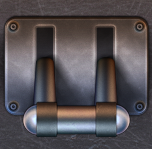
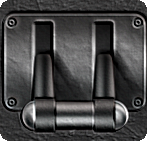
UI fixup - synchronisation of styles, minor graphic shanges, fonts, etc

diff --git a/common.css b/common.css
@@ -2,7 +2,7 @@
 /* Reset
 /*****************************************************************************/
 
-html, body, div, span, object, iframe, h1, h2, h3, h4, h5, h6, p, blockquote, pre, abbr, address, cite, code, del, dfn, em, img, ins, kbd, q, samp, small, strong, sub, sup, var, b, i, dl, dt, dd, ol, ul, li, fieldset, form, label, legend, table, caption, tbody, tfoot, thead, tr, th, td, article, aside, canvas, details, figcaption, figure, footer, header, hgroup, menu, nav, section, summary, time, mark, audio, video {
+html, body, div, span, object, iframe, h1, h2, h3, h4, h5, h6, p, blockquote, pre, abbr, address, cite, code, del, dfn, em, img, ins, kbd, q, samp, small, strong, sub, sup, var, b, i, dl, dt, dd, ol, ul, li, fieldset, form, label, legend, table, caption, tbody, tfoot, thead, tr, th, td, article, aside, canvas, details, figcaption, figure, footer, header, menu, nav, section, summary, time, mark, audio, video {
     margin: 0;
     padding: 0;
     border: 0;
@@ -10,12 +10,12 @@ html, body, div, span, object, iframe, h1, h2, h3, h4, h5, h6, p, blockquote, pr
     font-size: 100%;
     vertical-align: baseline;
     background: transparent;
-    font-family: Tahoma, sans-serif;
+    /*font-family: Tahoma, sans-serif;*/
 }
 body {
     line-height: 1
 }
-article, aside, details, figcaption, figure, footer, header, hgroup, menu, nav, section {
+article, aside, details, figcaption, figure, footer, header, menu, nav, section {
     display: block
 }
 nav ul {
@@ -280,11 +280,11 @@ h2{
 /* Control panel
 /*****************************************************************************/
 .status-bar{
-    /*background-image: url("images/menu/stats-background.png");*/
-    background-color :black;
+    background-image: url("images/menu/stats-background.png");
     height: 75px;
     width:75px;
     color:white;
+    font-family: 'Forum', cursive;
 }
 
 #status-bar >h1 {
@@ -293,12 +293,14 @@ h2{
 #control {
     background-color: #000000 ;
     color: #FFFFFF!important;
-    font-size: 10px;
+    font-size: 14px !important;
     height: 50px;
     margin-top: 500px;
     padding: 4px 6px 2px 6px;
     width: 788px;
     font-size: 110%;
+
+    font-family: 'Forum', cursive;
 }
 #control-left {
     float: left;
@@ -310,7 +312,7 @@ h2{
     float: left;
     text-align: center;
     width: 90px;
-    font-family: Tahoma, sans-serif;
+
 }
 #control-turrets > img {
     width:25px;
@@ -336,6 +338,7 @@ h2{
 }
 #control-right {
     float: right;
+
 }
 #control-right-1, #control-right-2, #control-right-3 {
     float: left;
@@ -346,10 +349,21 @@ h2{
     display: flex;
 }
 
+#control-right-2{
+    width:153px;
+    background-image: url("images/menu/textbackground.png");
+    background-size:100%;
+    background-repeat: no-repeat;
+    min-width: 60px;
+    padding: -10px 10px;
+}
+
+#control-right-3{
+    width:80px;
+}
 
 #control-timer {
-    /*background-image: url("images/menu/radioActive.png");*/
-    background-color: blue;
+    background-image: url("images/menu/radioActive.png");
     background-size:60%;
     background-repeat: no-repeat;
     display: block;
@@ -357,29 +371,42 @@ h2{
     height: 40px;
     margin-bottom: 2px;
     width: 65px;
+    margin-top: 8px;
 }
 
 
 #control-fast {
-    /*background-image: url("images/menu/handleDown.png");*/
-    background-color: red;
+    background-image: url("images/menu/handleDown.png");
     background-size: 100%;
     background-repeat: no-repeat;
     display: block;
     height: 40px;
     margin-bottom: 2px;
     width: 40px;
+    margin-right: 15px;
+    margin-top: 8px;
 }
 .control-fast-up{
-    /*background-image: url("images/menu/handleUp.png")!important;*/
-    background-color: green!important;
+    background-image: url("images/menu/handleUp.png")!important;
 }
-#control-right-2 {
-    border: solid #CCC;
-    border-width: 0 1px;
-    margin: 0 10px;
-    min-width: 60px;
-    padding: 0 10px;
+
+.control-pause{
+    background-image: url("images/menu/unpaused.png");
+    background-repeat: no-repeat;
+    background-size: 100%;
+}
+
+.control-unpause{
+    background-image: url("images/menu/paused.png");
+    background-repeat: no-repeat;
+    background-size: 100%;
+}
+
+
+.control-reset{
+    background-image: url("images/menu/reset.png");
+    background-repeat: no-repeat;
+    background-size: 100%;
 }
 
 .hidden-images img {

diff --git a/index.html b/index.html
@@ -8,6 +8,7 @@
     <script src="libs/kinetic-v5.1.0.js"></script>
     <script src="libs/jquery-2.1.4.min.js"></script>
 	<link href='http://fonts.googleapis.com/css?family=Nosifer' rel='stylesheet' type='text/css'>
+    <link href='http://fonts.googleapis.com/css?family=Forum' rel='stylesheet' type='text/css'>
 </head>
 
 <body>
@@ -196,9 +197,9 @@
             <div id="control-right-3">
                 <span id="control-fps">60</span>FPS
                 <br>
-                <a id="control-pause"> Pause  </a>
+                <a id="control-pause" class="control-pause"> Pause  </a>
                 <br>
-                <a href="">Reset</a>
+                <a href="" class="control-reset">Reset</a>
             </div>
         </div>
 		<div class="hidden-images">

diff --git a/scripts/ui.js b/scripts/ui.js
@@ -473,6 +473,7 @@ document.getElementById("control-fast").addEventListener("click", function(evt) 
 
 document.getElementById("control-pause").addEventListener("click", function(evt) {
     this.textContent = game.paused ? (game.start(), "Pause") : (game.pause(), "Start");
+    $(this).toggleClass('control-unpause');
 	var circle, triangle, child,
 		svgBase= document.getElementById('svg-conrainer');
         baseHeight=canvas.canvas.height,

diff --git a/scripts/utils.js b/scripts/utils.js
@@ -217,3 +217,4 @@ instructions.addEventListener("click",function(){
 instructionsRecipient.addEventListener("click",function(){
     instructionsRecipient.style.display = 'none';
 },false );
+
